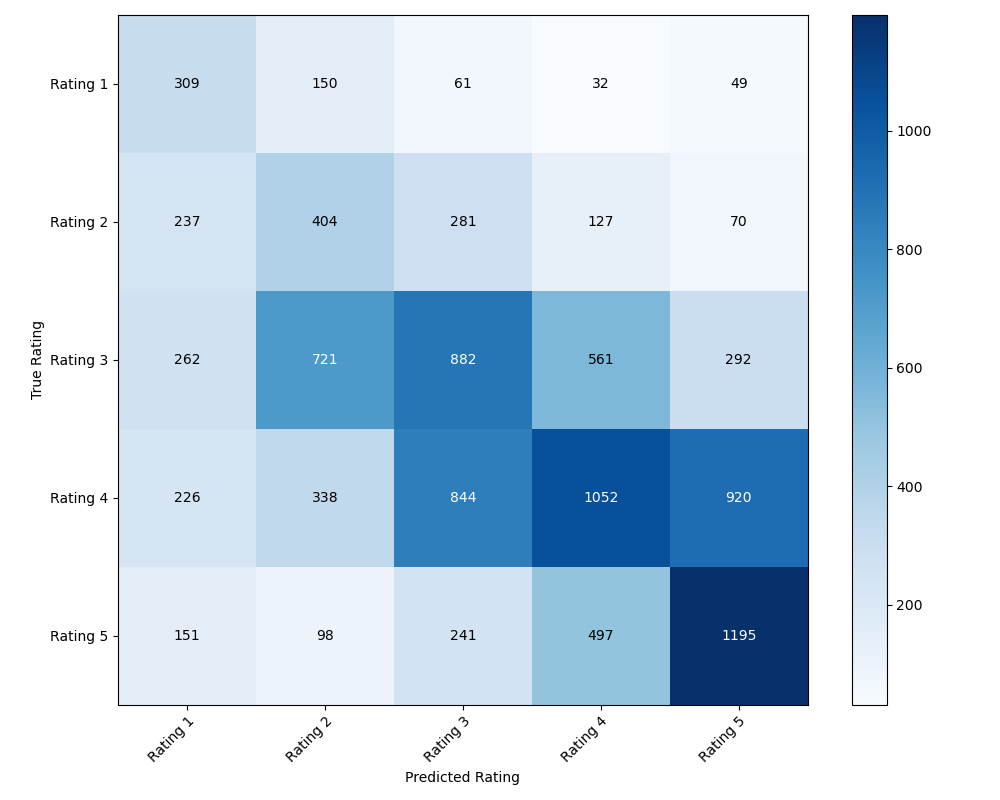
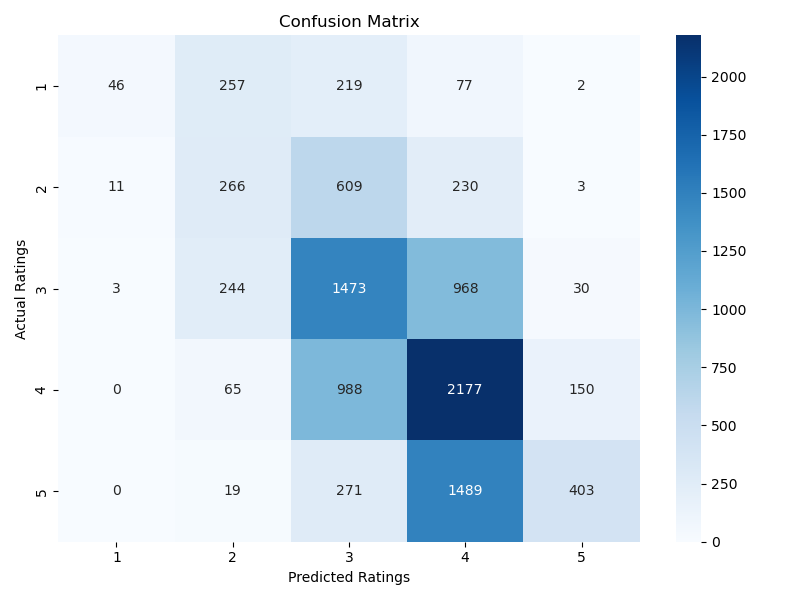
Update model weight initialization and add predictions vs actuals visualization; set random seed for reproducibility

diff --git a/src/02_b_ncf.py b/src/02_b_ncf.py
@@ -1,4 +1,3 @@
-
 #! Neural Collaborative Filtering (NCF) Model
 #? In this script we implement NCF to predict user-item ratings (1,2,3,4 or 5).
 
@@ -19,6 +18,7 @@ from sklearn.utils.class_weight import compute_class_weight
 from imblearn.over_sampling import RandomOverSampler
 import time
 import os
+import seaborn as sns
 
 # Define the model
 class NCF(nn.Module):
@@ -56,9 +56,13 @@ class NCF(nn.Module):
             # Update input dimension for next layer
             input_dim = dim
         
-        # Final output layer (NeuMF Layer)
-        self.final_layer = nn.Linear(embedding_dim + mlp_dims[-1], 5)
-        
+        # Final output layer for regression (output a single value)
+        self.final_layer = nn.Linear(embedding_dim + mlp_dims[-1], 1)
+    
+        # NEW: Add output scaling parameters (Uncomment to delete)
+        self.scale = nn.Parameter(torch.tensor(4.0))  # 5-1 = 4 rating range
+        self.shift = nn.Parameter(torch.tensor(1.0))  # Minimum rating
+    
         # Initialize weights
         self._init_weights()
         
@@ -92,10 +96,14 @@ class NCF(nn.Module):
         # Combine GMF and MLP outputs
         neumf_output = torch.cat([gmf_interaction, mlp_output], dim=-1)
         
-        # Get final logits for 5 classes (ratings 1-5)
-        final_logits = self.final_layer(neumf_output)
+        # Regression output
+        raw_output = self.final_layer(neumf_output)
+                # Apply sigmoid and scale to rating range (1-5)
+        scaled_output = torch.sigmoid(raw_output) * self.scale + self.shift
         
-        return final_logits  # Return raw logits
+        return scaled_output.squeeze()
+        
+        # return raw_output.squeeze()  # Return continuous ratings (batch_size,)
 
 def prepare_datasets(ratings_file, val_size=0.1, test_size=0.1, random_state=42):
     """
@@ -107,9 +115,6 @@ def prepare_datasets(ratings_file, val_size=0.1, test_size=0.1, random_state=42)
     # Get number of users and items (assuming IDs start from 0 or are already mapped)
     n_users = ratings_df['user_id'].max() + 1  
     n_items = ratings_df['item_id'].max() + 1
-    
-    # Convert ratings to 0-indexed classes (original ratings are 1-5)
-    ratings_df['rating_class'] = ratings_df['rating'] - 1
     
     # First split: separate out test set
     train_val_df, test_df = train_test_split(
@@ -140,7 +145,7 @@ def prepare_datasets(ratings_file, val_size=0.1, test_size=0.1, random_state=42)
         def __init__(self, ratings_df):
             self.users = torch.LongTensor(ratings_df['user_id'].values)
             self.items = torch.LongTensor(ratings_df['item_id'].values)
-            self.ratings = torch.LongTensor(ratings_df['rating_class'].values)  # Use 0-indexed classes
+            self.ratings = torch.LongTensor(ratings_df['rating'].values)  # Use 0-indexed classes
             
         def __len__(self):
             return len(self.users)
@@ -158,7 +163,7 @@ def train_ncf_model(model, train_loader, val_loader, optimizer,
                     device, num_epochs=10, patience=3, checkpoint_dir='./checkpoints',
                     class_weights=None):
     """
-    Train the NCF model
+    Train the NCF model for regression
     
     Args:
         model: NCF model
@@ -181,12 +186,8 @@ def train_ncf_model(model, train_loader, val_loader, optimizer,
     # Move model to device
     model = model.to(device)
     
-    # Set up weighted loss function if class weights provided
-    if class_weights is not None:
-        criterion = torch.nn.CrossEntropyLoss(weight=class_weights.to(device))
-        print("Using weighted loss function with weights:", class_weights)
-    else:
-        criterion = torch.nn.CrossEntropyLoss()
+    # Use Mean Squared Error (MSE) loss for regression
+    criterion = nn.MSELoss()
     
     # Initialize tracking variables
     best_val_loss = float('inf')
@@ -219,7 +220,7 @@ def train_ncf_model(model, train_loader, val_loader, optimizer,
             outputs = model(users, items)
             
             # Calculate loss
-            loss = criterion(outputs, ratings)
+            loss = criterion(outputs, ratings.float())  # Ensure ratings are float for regression
             
             # Backward pass
             loss.backward()
@@ -253,30 +254,22 @@ def train_ncf_model(model, train_loader, val_loader, optimizer,
                 outputs = model(users, items)
                 
                 # Calculate loss
-                loss = criterion(outputs, ratings)
+                loss = criterion(outputs, ratings.float())
                 val_loss += loss.item()
                 
-                # Get predictions
-                _, preds = torch.max(outputs, 1)
-                
                 # Store predictions and labels for metrics calculation
-                all_preds.extend(preds.cpu().numpy())
+                all_preds.extend(outputs.cpu().numpy())
                 all_labels.extend(ratings.cpu().numpy())
         
-        # Calculate average validation loss and metrics
+        # Calculate average validation loss
         avg_val_loss = val_loss / len(val_loader)
-        val_accuracy = accuracy_score(all_labels, all_preds)
-        val_f1 = f1_score(all_labels, all_preds, average='weighted')
         
         # Save metrics to history
         history['val_loss'].append(avg_val_loss)
-        history['val_accuracy'].append(val_accuracy)
-        history['val_f1'].append(val_f1)
         
         # Print epoch summary
         print(f'Epoch {epoch+1}/{num_epochs} - '
-              f'Train Loss: {avg_train_loss:.4f}, Val Loss: {avg_val_loss:.4f}, '
-              f'Val Accuracy: {val_accuracy:.4f}, Val F1: {val_f1:.4f}')
+              f'Train Loss: {avg_train_loss:.4f}, Val Loss: {avg_val_loss:.4f}')
         
         # Check if this is the best model so far
         if avg_val_loss < best_val_loss:
@@ -312,53 +305,36 @@ def train_ncf_model(model, train_loader, val_loader, optimizer,
     
     return model, history
 
-def evaluate_model(model, test_loader, criterion, device):
+def evaluate_model(model, test_loader, device):
     """
-    Evaluate the model on test data
+    Evaluate the model on test data for regression
     """
     model.eval()
     test_loss = 0.0
     all_preds = []
     all_labels = []
     
+    criterion = nn.MSELoss()
+    
     with torch.no_grad():
         for users, items, ratings in test_loader:
             users, items, ratings = users.to(device), items.to(device), ratings.to(device)
             outputs = model(users, items)
             
-            loss = criterion(outputs, ratings)
+            loss = criterion(outputs, ratings.float())
             test_loss += loss.item()
             
-            _, preds = torch.max(outputs, 1)
-            all_preds.extend(preds.cpu().numpy())
+            all_preds.extend(outputs.cpu().numpy())
             all_labels.extend(ratings.cpu().numpy())
     
     # Calculate metrics
     avg_test_loss = test_loss / len(test_loader)
-    test_accuracy = accuracy_score(all_labels, all_preds)
-    test_f1 = f1_score(all_labels, all_preds, average='weighted')
-    conf_matrix = confusion_matrix(all_labels, all_preds)
-    
-    # Calculate per-class metrics
-    class_names = ["Rating 1", "Rating 2", "Rating 3", "Rating 4", "Rating 5"]
-    per_class_f1 = f1_score(all_labels, all_preds, average=None)
-    
-    # Print results
-    print(f'Test Loss: {avg_test_loss:.4f}')
-    print(f'Test Accuracy: {test_accuracy:.4f}')
-    print(f'Test F1 Score (weighted): {test_f1:.4f}')
-    print('Per-class F1 Scores:')
-    for i, class_f1 in enumerate(per_class_f1):
-        print(f'  {class_names[i]}: {class_f1:.4f}')
-    print('Confusion Matrix:')
-    print(conf_matrix)
+    print(f'Test Loss (MSE): {avg_test_loss:.4f}')
     
     return {
         'test_loss': avg_test_loss,
-        'test_accuracy': test_accuracy,
-        'test_f1': test_f1,
-        'per_class_f1': per_class_f1,
-        'confusion_matrix': conf_matrix
+        'predictions': all_preds,
+        'true_labels': all_labels
     }
 
 def plot_training_history(history):
@@ -368,58 +344,55 @@ def plot_training_history(history):
     plt.figure(figsize=(12, 4))
     
     # Plot loss
-    plt.subplot(1, 2, 1)
     plt.plot(history['train_loss'], label='Train Loss')
     plt.plot(history['val_loss'], label='Validation Loss')
     plt.xlabel('Epoch')
     plt.ylabel('Loss')
     plt.title('Training and Validation Loss')
     plt.legend()
-    
-    # Plot metrics
-    plt.subplot(1, 2, 2)
-    plt.plot(history['val_accuracy'], label='Accuracy')
-    plt.plot(history['val_f1'], label='F1 Score')
-    plt.xlabel('Epoch')
-    plt.ylabel('Score')
-    plt.title('Validation Metrics')
-    plt.legend()
-    
     plt.tight_layout()
     plt.savefig('training_history.png')
     plt.show()
 
-def plot_confusion_matrix(cm, class_names):
+def plot_predictions_vs_actuals(predictions, actuals):
     """
-    Plot confusion matrix
+    Plot predicted ratings vs. actual ratings for regression
     """
-    fig, ax = plt.subplots(figsize=(10, 8))
-    im = ax.imshow(cm, interpolation='nearest', cmap=plt.cm.Blues)
-    ax.figure.colorbar(im, ax=ax)
+    plt.figure(figsize=(8, 8))
+    plt.scatter(actuals, predictions, alpha=0.5, edgecolors='k', color='blue')
+    plt.plot([min(actuals), max(actuals)], [min(actuals), max(actuals)], color='red', linestyle='--', linewidth=2)
+    plt.xlabel('Actual Ratings')
+    plt.ylabel('Predicted Ratings')
+    plt.title('Predicted vs. Actual Ratings')
+    plt.grid(True)
+    plt.tight_layout()
+    plt.savefig('predictions_vs_actuals.png')
+    plt.show()
+
+def plot_confusion_matrix(predictions, actuals, classes=None):
+    """
+    Plot a confusion matrix for the predicted and actual ratings.
+
+    Args:
+        predictions (list or np.array): Predicted ratings.
+        actuals (list or np.array): Actual ratings.
+        classes (list): List of class labels (e.g., [1, 2, 3, 4, 5]).
+    """
+    # Round predictions to the nearest integer
+    rounded_preds = np.rint(predictions).astype(int)
     
-    # Set labels
-    ax.set(xticks=np.arange(cm.shape[1]),
-           yticks=np.arange(cm.shape[0]),
-           xticklabels=class_names, yticklabels=class_names,
-           ylabel='True Rating',
-           xlabel='Predicted Rating')
+    # Compute confusion matrix
+    cm = confusion_matrix(actuals, rounded_preds, labels=classes)
     
-    # Rotate x tick labels and set their alignment
-    plt.setp(ax.get_xticklabels(), rotation=45, ha="right", rotation_mode="anchor")
-    
-    # Loop over data dimensions and create text annotations
-    fmt = 'd'
-    thresh = cm.max() / 2.
-    for i in range(cm.shape[0]):
-        for j in range(cm.shape[1]):
-            ax.text(j, i, format(cm[i, j], fmt),
-                    ha="center", va="center",
-                    color="white" if cm[i, j] > thresh else "black")
-    
-    fig.tight_layout()
+    # Plot confusion matrix
+    plt.figure(figsize=(8, 6))
+    sns.heatmap(cm, annot=True, fmt='d', cmap='Blues', xticklabels=classes, yticklabels=classes)
+    plt.xlabel('Predicted Ratings')
+    plt.ylabel('Actual Ratings')
+    plt.title('Confusion Matrix')
+    plt.tight_layout()
     plt.savefig('confusion_matrix.png')
     plt.show()
-    return ax
 
 def get_class_weights(train_loader,device):
     all_ratings = []
@@ -451,9 +424,9 @@ def run_training_pipeline(ratings_file, model_config=None, train_config=None):
     
     default_train_config = {
         "batch_size": 256,
-        "learning_rate": 0.001,
+        "learning_rate": 0.0001,
         "weight_decay": 1e-5,
-        "num_epochs": 20,
+        "num_epochs": 40,
         "patience": 5,
         "val_size": 0.1,
         "test_size": 0.1
@@ -461,10 +434,15 @@ def run_training_pipeline(ratings_file, model_config=None, train_config=None):
     
     # Update with provided configurations
     if model_config:
-        default_model_config.update(model_config)
+        # default_model_config.update(model_config)
+        pass
     
     if train_config:
-        default_train_config.update(train_config)
+        # default_train_config.update(train_config)
+        pass
+    
+    #Set random seed
+    torch.manual_seed(42)
     
     # Set device
     device = torch.device("cuda" if torch.cuda.is_available() else "cpu")
@@ -540,14 +518,13 @@ def run_training_pipeline(ratings_file, model_config=None, train_config=None):
     
     # Evaluate model on test set
     print("Evaluating model on test set...")
-    evaluation_results = evaluate_model(trained_model, test_loader, criterion, device)
+    evaluation_results = evaluate_model(trained_model, test_loader, device)
     
-    # Plot training history
     plot_training_history(history)
+
+    # plot_predictions_vs_actuals(evaluation_results['predictions'], evaluation_results['true_labels'])
     
-    # Plot confusion matrix
-    class_names = ["Rating 1", "Rating 2", "Rating 3", "Rating 4", "Rating 5"]
-    plot_confusion_matrix(evaluation_results['confusion_matrix'], class_names)
+    plot_confusion_matrix(evaluation_results['predictions'], evaluation_results['true_labels'], classes=[1, 2, 3, 4, 5])
     
     return trained_model, history, evaluation_results
 

diff --git a/src/02_a_ncf.py b/src/02_a_ncf.py
@@ -63,7 +63,7 @@ class NCF(nn.Module):
         self._init_weights()
         
     def _init_weights(self):
-        """Initialize weights using Xavier/Glorot initialization"""
+        """Initialize weights with modified final layer initialization"""
         for m in self.modules():
             if isinstance(m, nn.Linear):
                 nn.init.xavier_uniform_(m.weight)
@@ -71,7 +71,10 @@ class NCF(nn.Module):
                     nn.init.zeros_(m.bias)
             elif isinstance(m, nn.Embedding):
                 nn.init.normal_(m.weight, std=0.01)
-    
+        
+        # Special initialization for final layer
+        nn.init.xavier_normal_(self.final_layer.weight, gain=0.1)  # Smaller initialization
+
     def forward(self, user, item):
         # GMF part
         user_gmf = self.user_embedding_gmf(user)
@@ -467,6 +470,9 @@ def run_training_pipeline(ratings_file, model_config=None, train_config=None):
     if train_config:
         # default_train_config.update(train_config)
         pass
+    
+    #Set random seed
+    torch.manual_seed(42)
     
     # Set device
     device = torch.device("cuda" if torch.cuda.is_available() else "cpu")
